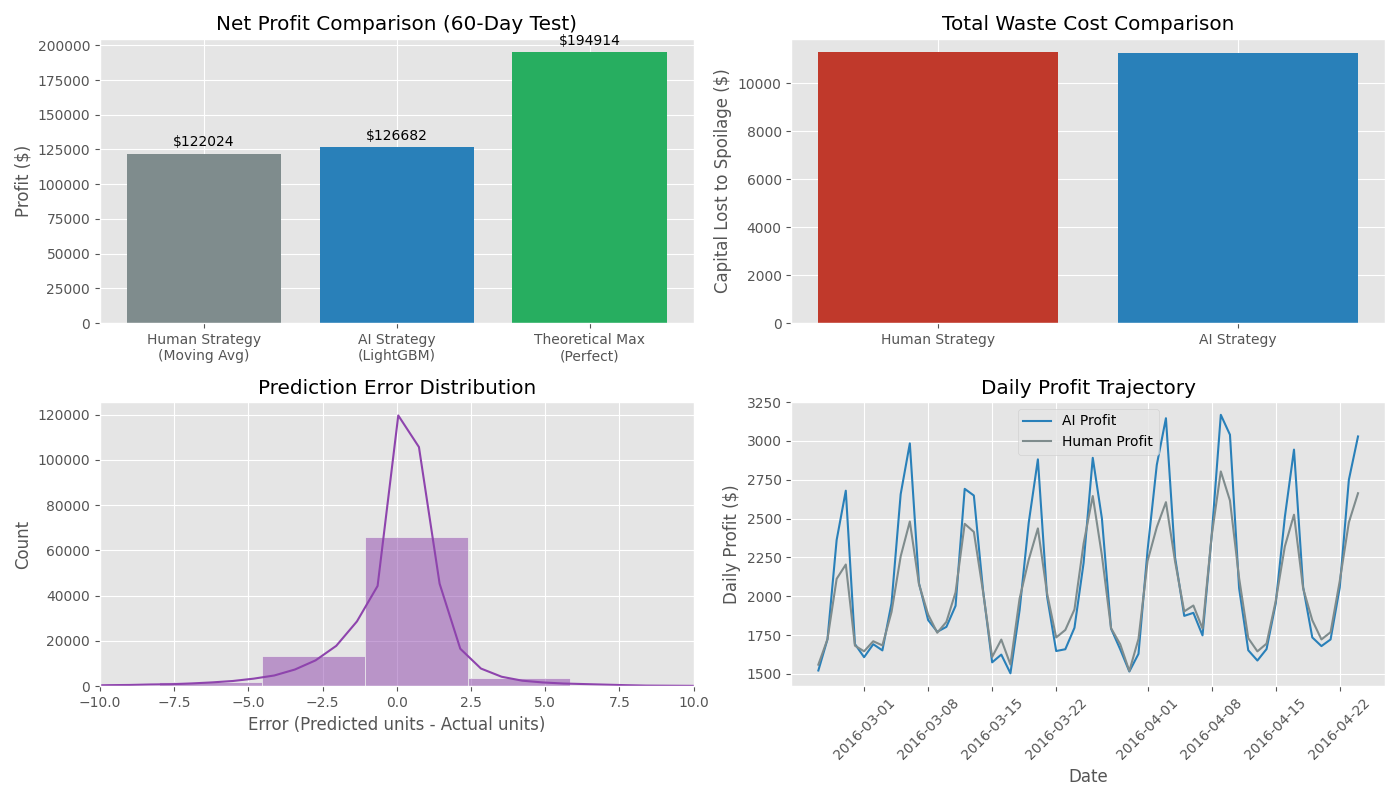
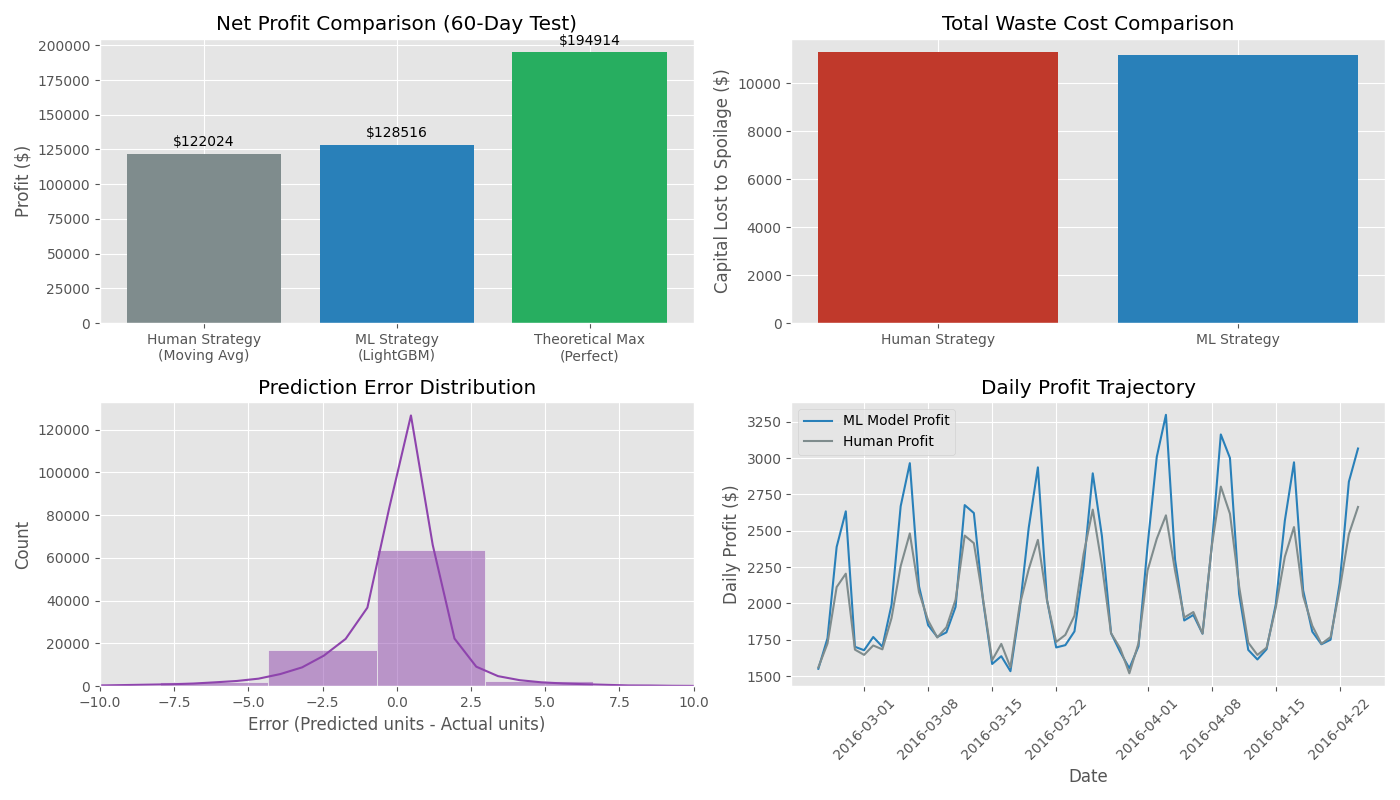
Add streamlit dashboard and improve ml logic

diff --git a/grocery.py b/grocery.py
@@ -6,6 +6,7 @@ import seaborn as sns
 from sklearn.metrics import mean_absolute_error
 import warnings
 import time
+import joblib
 
 warnings.filterwarnings('ignore')
 plt.style.use('ggplot')
@@ -53,13 +54,15 @@ class SmartSupplyAI:
         print("[2/6] Engineering time-series features...")
         df = self.df.sort_values(['id', 'date']).copy()
 
-        # lag features (what did sales look like 7 and 28 days ago?)
+        # lag features (what did sales look like 7, 14 and 28 days ago?)
         df['sales_lag_7'] = df.groupby('id')['sales'].shift(7)
+        df['sales_lag_14'] = df.groupby('id')['sales'].shift(14)
         df['sales_lag_28'] = df.groupby('id')['sales'].shift(28)
 
-        # rolling statistics for trend detection
+        # rolling statistics for trend detection (short and medium windows)
         df['rolling_mean_7'] = df.groupby('id')['sales'].transform(lambda x: x.shift(1).rolling(7).mean())
         df['rolling_std_7'] = df.groupby('id')['sales'].transform(lambda x: x.shift(1).rolling(7).std())
+        df['rolling_mean_28'] = df.groupby('id')['sales'].transform(lambda x: x.shift(1).rolling(28).mean())
 
         # price momentum and discount tracking
         df['price_max'] = df.groupby('item_id')['sell_price'].transform('max')
@@ -68,6 +71,13 @@ class SmartSupplyAI:
         # date specific features
         df['day_of_week'] = df['date'].dt.dayofweek
         df['is_weekend'] = df['day_of_week'].ge(5).astype(int)
+        df['day_of_month'] = df['date'].dt.day
+        df['week_of_year'] = df['date'].dt.isocalendar().week.astype(int)
+        df['month'] = df['date'].dt.month
+
+        # categorical id features to help the model learn per-item and per-store patterns
+        for col in ['item_id', 'dept_id', 'cat_id', 'store_id']:
+            df[col] = df[col].astype('category')
 
         # drop rows with nan values caused by the lag shifting
         self.df = df.dropna()
@@ -80,19 +90,29 @@ class SmartSupplyAI:
         train = self.df[self.df['date'] <= cutoff]
         val = self.df[self.df['date'] > cutoff]
 
-        self.features = ['sales_lag_7', 'sales_lag_28', 'rolling_mean_7', 'rolling_std_7', 
-                         'sell_price', 'price_discount', 'day_of_week', 'is_weekend', 'snap_CA']
+        self.features = [
+            'sales_lag_7', 'sales_lag_14', 'sales_lag_28',
+            'rolling_mean_7', 'rolling_mean_28', 'rolling_std_7',
+            'sell_price', 'price_discount',
+            'day_of_week', 'is_weekend', 'day_of_month', 'week_of_year', 'month',
+            'snap_CA'
+        ]
 
         train_set = lgb.Dataset(train[self.features], train['sales'])
         val_set = lgb.Dataset(val[self.features], val['sales'])
 
-        # configure LightGBM parameters for poisson regression (best for item counts)
+        # configure lightgbm parameters for poisson regression (good for count data)
         params = {
             'objective': 'poisson',
             'metric': 'rmse',
-            'learning_rate': 0.07,
+            'learning_rate': 0.05,
             'subsample': 0.8,
+            'feature_fraction': 0.9,
+            'num_leaves': 64,
+            'min_data_in_leaf': 50,
             'force_col_wise': True,
+            'bagging_freq': 1,
+            'seed': 42,
             'verbose': -1
         }
 
@@ -106,6 +126,12 @@ class SmartSupplyAI:
         )
 
         self.val_df = val
+        # quick validation metric so you can see model quality
+        val_pred = self.model.predict(val[self.features])
+        mae = mean_absolute_error(val['sales'], val_pred)
+        print(f"   validation mae: {mae:.3f}")
+        # save the trained model to a file for the django backend to use
+        joblib.dump(self.model, 'lightgbm_model.pkl')
 
     def run_simulation(self):
         print("[4/6] Simulating real-world profit logic...")
@@ -121,8 +147,9 @@ class SmartSupplyAI:
         # dynamic safety stock calculation based on profit margins
         val_df['safety_factor'] = np.where(val_df['margin'] > 2.0, 1.25, 1.05)
         
-        # FIX 1: Use normal rounding, not ceil. This stops ordering 1 unit for items with 0.1 demand.
-        val_df['stock_decision'] = np.round(val_df['pred_demand'] * val_df['safety_factor'])
+        # use normal rounding and clip to avoid negative or extreme orders
+        raw_stock = np.round(val_df['pred_demand'] * val_df['safety_factor'])
+        val_df['stock_decision'] = np.clip(raw_stock, 0, None)
 
         # financial outcomes for the model
         val_df['units_sold'] = np.minimum(val_df['stock_decision'], val_df['sales'])
@@ -168,7 +195,7 @@ class SmartSupplyAI:
         # 1. profit comparison
         ax1 = fig.add_subplot(gs[0, 0])
         profits = [sim['sma_profit'].sum(), sim['net_profit'].sum(), sim['oracle_profit'].sum()]
-        labels = ['Human Strategy\n(Moving Avg)', 'AI Strategy\n(LightGBM)', 'Theoretical Max\n(Perfect)']
+        labels = ['Human Strategy\n(Moving Avg)', 'ML Strategy\n(LightGBM)', 'Theoretical Max\n(Perfect)']
         colors = ['#7f8c8d', '#2980b9', '#27ae60']
         bars = ax1.bar(labels, profits, color=colors)
         ax1.set_title("Net Profit Comparison (60-Day Test)")
@@ -178,7 +205,7 @@ class SmartSupplyAI:
         # 2. waste comparison
         ax2 = fig.add_subplot(gs[0, 1])
         waste = [sim['sma_waste_cost'].sum(), sim['waste_cost'].sum()]
-        ax2.bar(['Human Strategy', 'AI Strategy'], waste, color=['#c0392b', '#2980b9'])
+        ax2.bar(['Human Strategy', 'ML Strategy'], waste, color=['#c0392b', '#2980b9'])
         ax2.set_title("Total Waste Cost Comparison")
         ax2.set_ylabel("Capital Lost to Spoilage ($)")
 
@@ -193,7 +220,7 @@ class SmartSupplyAI:
         # 4. daily profit tracking
         ax4 = fig.add_subplot(gs[1, 1])
         daily_profit = sim.groupby('date')[['net_profit', 'sma_profit']].sum().reset_index()
-        sns.lineplot(data=daily_profit, x='date', y='net_profit', label='AI Profit', ax=ax4, color='#2980b9')
+        sns.lineplot(data=daily_profit, x='date', y='net_profit', label='ML Model Profit', ax=ax4, color='#2980b9')
         sns.lineplot(data=daily_profit, x='date', y='sma_profit', label='Human Profit', ax=ax4, color='#7f8c8d')
         ax4.set_title("Daily Profit Trajectory")
         ax4.set_xlabel("Date")
@@ -229,18 +256,18 @@ if __name__ == "__main__":
     app.run_simulation()
     
     sim = app.simulation
-    ai_profit = sim['net_profit'].sum()
+    ml_profit = sim['net_profit'].sum()
     human_profit = sim['sma_profit'].sum()
     oracle_profit = sim['oracle_profit'].sum()
     waste_savings = sim['sma_waste_cost'].sum() - sim['waste_cost'].sum()
     
     print("\nPROJECTED IMPACT REPORT (60-DAY VALIDATION)")
     print("-" * 45)
-    print(f"Human Baseline Profit:  ${human_profit:,.2f}")
-    print(f"AI Optimized Profit:    ${ai_profit:,.2f}")
-    print(f"Net Profit Increase:    ${ai_profit - human_profit:,.2f}")
-    print(f"Waste Capital Saved:    ${waste_savings:,.2f}")
-    print(f"Theoretical Max Profit: ${oracle_profit:,.2f}")
+    print(f"Human Baseline Profit:    ${human_profit:,.2f}")
+    print(f"ML Model Optimized Profit: ${ml_profit:,.2f}")
+    print(f"Net Profit Increase:      ${ml_profit - human_profit:,.2f}")
+    print(f"Waste Capital Saved:      ${waste_savings:,.2f}")
+    print(f"Theoretical Max Profit:   ${oracle_profit:,.2f}")
     print("-" * 45)
     
     app.generate_dashboard()

diff --git a/app.py b/app.py
@@ -1,0 +1,112 @@
+import streamlit as st
+import pandas as pd
+import numpy as np
+
+st.set_page_config(page_title="smartsupply", layout="wide")
+
+@st.cache_data
+def load_simulation():
+    # load the csv exported by grocery.py
+    sim = pd.read_csv("m5_supply_chain_forecast.csv", parse_dates=["date"])
+    return sim
+
+st.title("smartsupply – ml vs human inventory strategy")
+
+# high-level context on what this app is doing
+st.markdown(
+    "this dashboard uses your trained lightgbm model on the public walmart m5 dataset "
+    "(daily item-level sales, calendar, and price data) to compare the ml model's ordering policy "
+    "against a simple human baseline."
+)
+
+with st.expander("about the walmart m5 data", expanded=False):
+    st.markdown(
+        "- **sales_train_validation.csv**: historical daily unit sales for thousands of walmart items, "
+        "broken down by store, category, and item id.\n"
+        "- **calendar.csv**: the retail calendar with real dates, events, and snap (food-stamp) indicators.\n"
+        "- **sell_prices.csv**: weekly store-level prices so the model can learn how price affects demand.\n\n"
+        "smartsupply filters this down to a single store and category, learns demand patterns, and then "
+        "simulates profit and waste when the ml model controls ordering instead of a simple moving-average human strategy."
+    )
+    # optional: include the offline matplotlib dashboard image without breaking the dark layout
+    st.image(
+        "smart_supply_dashboard.png",
+        caption="offline dashboard generated from the same m5 simulation (profit, waste, and error views).",
+        use_column_width=True,
+    )
+
+if "sim" not in st.session_state:
+    try:
+        st.session_state["sim"] = load_simulation()
+    except FileNotFoundError:
+        st.error("could not find m5_supply_chain_forecast.csv. run `python3 grocery.py` first.")
+        st.stop()
+
+sim = st.session_state["sim"]
+
+# top kpis
+ml_profit = sim["net_profit"].sum()
+human_profit = sim["sma_profit"].sum()
+profit_lift = ml_profit - human_profit
+
+c1, c2, c3 = st.columns(3)
+c1.metric("human profit (60d)", f"${human_profit:,.0f}")
+c2.metric("ml model profit (60d)", f"${ml_profit:,.0f}")
+c3.metric("profit lift (ml - human)", f"${profit_lift:,.0f}")
+
+st.markdown("---")
+
+# daily profit chart
+st.subheader("daily profit trajectory")
+daily = sim.groupby("date")[["net_profit", "sma_profit"]].sum().reset_index()
+daily = daily.set_index("date")
+st.line_chart(daily.rename(columns={"net_profit": "ml_model_profit", "sma_profit": "human_profit"}))
+
+st.markdown("---")
+
+# item-level table with filters
+st.subheader("item-level recommendations")
+
+item_filter = st.text_input("filter by item_id (optional):").strip()
+date_range = st.date_input(
+    "date range",
+    value=(daily.index.min().date(), daily.index.max().date()),
+)
+
+start_date, end_date = pd.to_datetime(date_range[0]), pd.to_datetime(date_range[1])
+
+filtered = sim[(sim["date"] >= start_date) & (sim["date"] <= end_date)]
+
+if item_filter:
+    filtered = filtered[filtered["item_id"].str.contains(item_filter, case=False)]
+
+cols_to_show = [
+    "date",
+    "item_id",
+    "sales",
+    "pred_demand",
+    "stock_decision",
+    "waste",
+    "net_profit",
+    "sma_profit",
+]
+st.dataframe(
+    filtered[cols_to_show]
+        .sort_values(["date", "item_id"])
+        .head(500),
+    use_container_width=True,
+)
+
+st.markdown(
+    """
+**table legend**
+- `date`: the calendar date of the transaction in the m5 dataset.
+- `item_id`: unique walmart item identifier within the selected store/category slice.
+- `sales`: actual units sold on that date (what really happened in history).
+- `pred_demand`: units of demand forecasted by the lightgbm model for that date.
+- `stock_decision`: how many units smartsupply chooses to put on the shelf after applying a safety factor.
+- `waste`: units that ended up unsold and spoiled (based on the configured spoilage rate).
+- `net_profit`: profit in dollars under the ml model strategy for that item and date after revenue, cogs, and waste.
+- `sma_profit`: profit in dollars if a human had ordered using a simple 7-day moving-average rule instead.
+"""
+)

diff --git a/README.md b/README.md
@@ -17,27 +17,62 @@ This project uses the real-world Walmart M5 Forecasting dataset to simulate real
 ## Setup
 
 1. Clone the repository:
+
+```bash
 git clone https://github.com/adnanjasims/smart-supply.git
 cd smart-supply
+```
 
 2. Create and activate a virtual environment:
-python3 -m venv venv
-source venv/bin/activate
 
-3. Install dependencies:
+```bash
+python3 -m venv .venv
+source .venv/bin/activate
+```
+
+3. Install dependencies (if you are not using `requirements.txt`):
+
+```bash
+python3 -m pip install --upgrade pip
+python3 -m pip install pandas numpy lightgbm matplotlib seaborn scikit-learn joblib streamlit
+```
+
+If you prefer, you can instead install from a `requirements.txt` file:
+
+```bash
 pip install -r requirements.txt
+```
 
 4. Download the M5 Dataset:
-Download sales_train_validation.csv, calendar.csv, and sell_prices.csv from the Kaggle M5 Forecasting Competition and place them in your project root directory.
 
-## Usage
+Download `sales_train_validation.csv`, `calendar.csv`, and `sell_prices.csv` from the Kaggle M5 Forecasting Competition and place them in your project root directory.
+
+## Usage (Core Pipeline)
 
 Run the main pipeline to process data, train the model, and simulate profits:
 
+```bash
 python3 grocery.py
+```
 
 ## Output
 
 The script generates two key files:
-- smart_supply_dashboard.png: Visualizes net profit comparisons, waste reduction, prediction errors, and daily profit trajectories.
-- m5_supply_chain_forecast.csv: A detailed report containing daily predicted demand, automated stock decisions, simulated waste, and net profit per item.
+- `smart_supply_dashboard.png`: Visualizes net profit comparisons, waste reduction, prediction errors, and daily profit trajectories.
+- `m5_supply_chain_forecast.csv`: A detailed report containing daily predicted demand, automated stock decisions, simulated waste, and net profit per item.
+
+## Web Frontend (Streamlit Dashboard)
+
+After you have run `python3 grocery.py` at least once and `m5_supply_chain_forecast.csv` has been generated, you can launch the interactive browser dashboard:
+
+```bash
+python3 -m streamlit run app.py
+```
+
+The Streamlit app will:
+- read `m5_supply_chain_forecast.csv` and compare AI-driven strategy vs a simple human baseline,
+- show key KPIs (human profit, AI/ML model profit, profit lift),
+- plot daily profit trajectories for both strategies, and
+- expose an item-level table of recommendations with filters and a legend explaining each column.
+
+Open the URL printed by Streamlit (usually `http://localhost:8501`) in your browser to explore the results.
